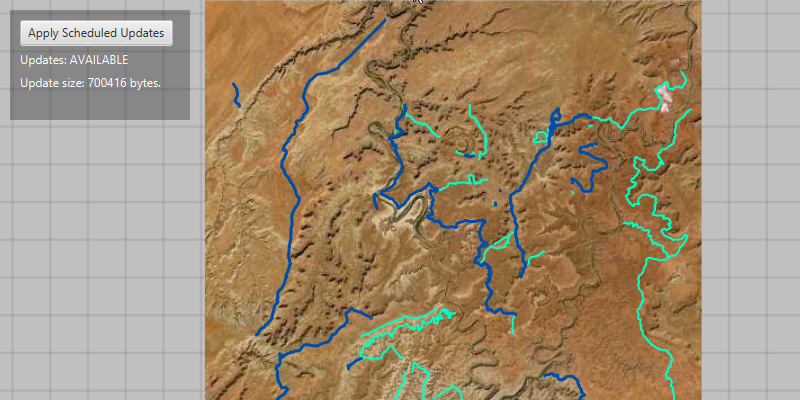
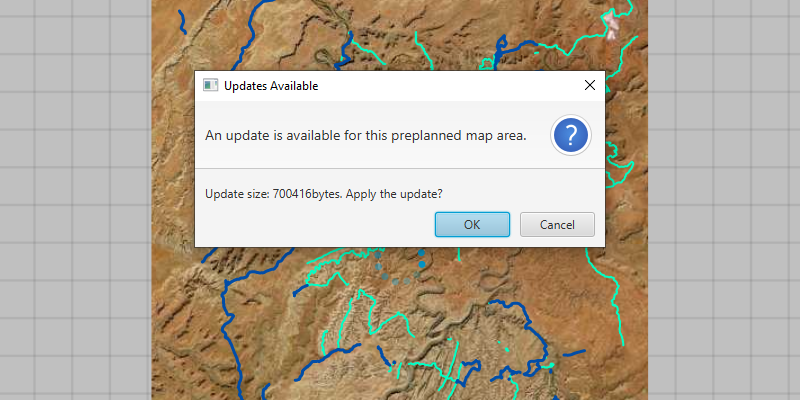
update screenshot and readme.md

diff --git a/map/apply-scheduled-updates-to-preplanned-map-area/README.md b/map/apply-scheduled-updates-to-preplanned-map-area/README.md
@@ -12,7 +12,7 @@ This workflow can be used by survey workers operating in remote areas where netw
 
 ## How to use the sample
 
-Start the app. It will display an offline map, check for available updates, and show update availability and size. Select 'Apply Updates' to apply the updates to the local offline map and show the results.
+Start the app. It will display an offline map, check for available updates, and show an alert with update availability and size. Confirm to apply the updates to the local offline map and show the results.
 
 ## How it works
 
